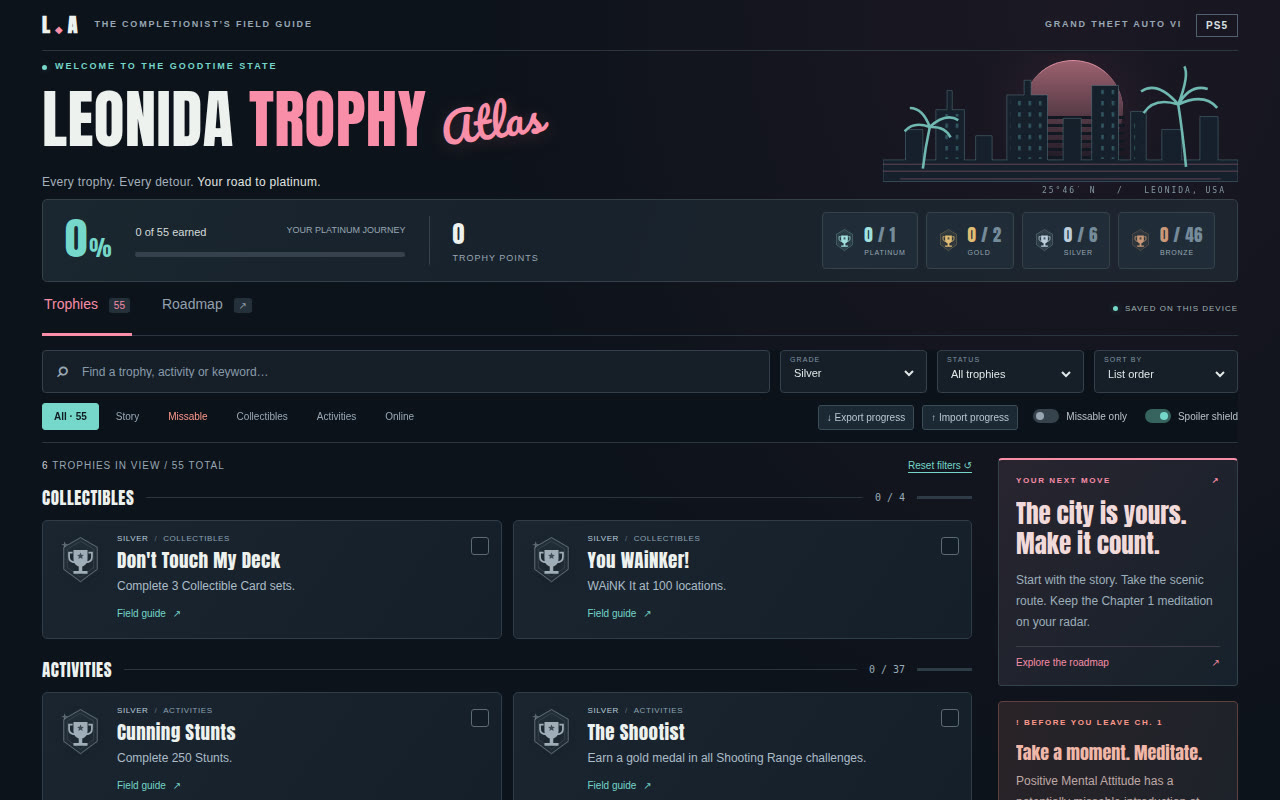
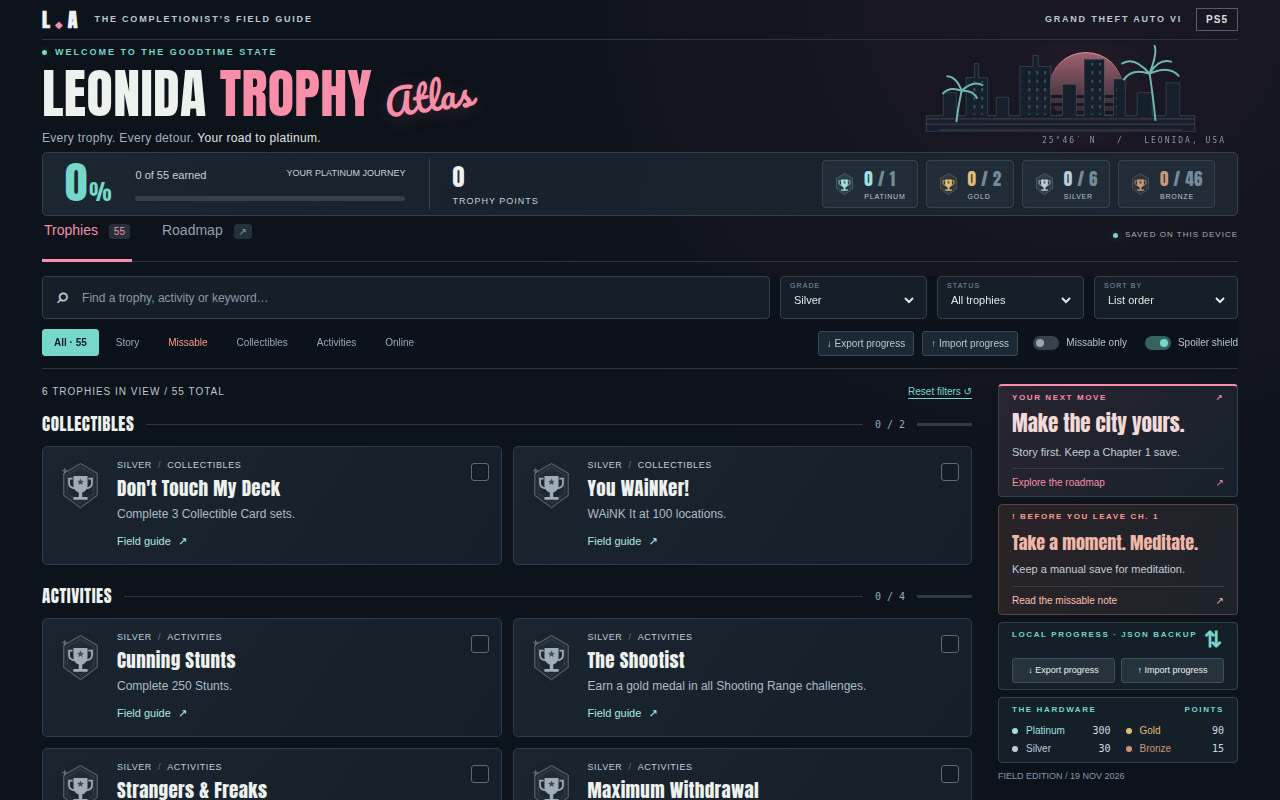
Leonida Trophy Atlas: critic fixes — compact hero, filter-aware counts, contrast, no voids

diff --git a/app/app.js b/app/app.js
@@ -57,8 +57,8 @@ function persist() {
   }
 }
 
-function groupProgress(categories) {
-  const trophies = data.trophies.filter((trophy) => categories.includes(trophy.category));
+function groupProgress(categories, visibleTrophies = data.trophies) {
+  const trophies = visibleTrophies.filter((trophy) => categories.includes(trophy.category));
   const done = trophies.filter((trophy) => earned.has(trophy.id)).length;
   return {
     done,
@@ -145,7 +145,7 @@ function renderTrophies() {
     (category) => {
       const trophies = filtered.filter((trophy) => trophy.category === category);
       if (!trophies.length) return '';
-      const progress = groupProgress([category]);
+      const progress = groupProgress([category], filtered);
       return `<section class="group" aria-label="${category} trophies"><div class="group-header"><h2>${category === 'Platinum' ? 'The ultimate souvenir' : category}</h2><span class="group-line"></span><span class="group-count">${progress.done} / ${progress.total}</span><span class="mini-bar" aria-hidden="true"><span style="width:${progress.percent}%"></span></span></div><div class="trophy-grid">${trophies.map(trophyMarkup).join('')}</div></section>`;
     },
   ).join(
@@ -176,6 +176,7 @@ function renderRoadmap() {
   const missables = data.trophies.filter((trophy) => trophy.missable);
   results.innerHTML = `<div class="roadmap-intro"><div><h2>THE LONG ROAD TO LEGEND</h2><p>A considered route. A little less backtracking.</p></div><span class="route-stamp">SINGLE-PLAYER ONLY</span></div><div class="roadmap-metrics"><div class="metric"><span>ESTIMATED DIFFICULTY</span><strong>${roadmap.difficulty}</strong><small>${escapeHtml(roadmap.difficultyNote)}</small></div><div class="metric"><span>TIME TO PLATINUM</span><strong>${roadmap.timeToPlatinum}</strong><small>PowerPyx estimate · exploration sets the pace</small></div></div><section class="roadmap-warning"><h3>! MISSABLES FIRST</h3>${missables.map((trophy) => `<p><strong>${escapeHtml(trophy.name)} — Chapter 1, Jason’s house.</strong> After Down to Earth, talk to Lucia in the kitchen in the morning, follow her to the balcony and accept meditation before leaving the chapter. Potentially missable; the requirement is still being verified. <a href="?open=${trophy.id}" data-jump="${trophy.id}">Read the precaution ↗</a></p>`).join('')}</section><div class="timeline">${roadmap.phases
     .map((phase, index) => {
+      if (index === 0) phase = { ...phase, text: 'Before leaving Chapter 1, see the Missables First warning above.' };
       const progress = groupProgress(phase.categories);
       return `<section class="phase"><span class="phase-number">${String(index + 1).padStart(2, '0')}</span><div class="phase-header"><h3>${escapeHtml(phase.title)}</h3><span class="phase-time">${escapeHtml(phase.hours)}</span></div><p>${escapeHtml(phase.text)}</p><div class="phase-progress"><span>${phase.categories.join(' + ')}</span><div class="progress-bar"><span style="width:${progress.percent}%"></span></div><strong>${progress.done} / ${progress.total} earned</strong></div></section>`;
     })
@@ -191,6 +192,21 @@ function renderRail() {
     <section class="rail-panel warning-panel"><div class="rail-eyebrow"><span>! BEFORE YOU LEAVE CH. 1</span></div><h3>Take a moment. Meditate.</h3><p>Positive Mental Attitude has a potentially missable introduction at Jason’s house. Keep a manual save.</p><button class="rail-action" data-jump="trophy-28">Read the missable note <span>↗</span></button></section>
     <section class="rail-panel"><div class="rail-eyebrow"><span>YOUR PROGRESS, YOURS.</span><span class="backup-icon">⇅</span></div><p style="margin-top:12px">${progress.done} earned. One browser. No account.<br>Take a backup for the next device.</p><div class="backup-actions"><button data-action="export">↓ Export progress</button><button data-action="import">↑ Import progress</button></div><p class="rail-footnote" style="margin-top:10px">JSON backup · stored locally · no cloud sync</p></section>
     <section class="rail-panel"><div class="rail-eyebrow"><span>THE HARDWARE</span><span>POINTS</span></div><div class="legend-list">${GRADES.map((grade) => `<div><span class="grade-${grade}"><i></i>${grade[0].toUpperCase() + grade.slice(1)}</span><b>${POINTS[grade]}</b></div>`).join('')}</div></section><p class="rail-footnote">FIELD EDITION / 19 NOV 2026<br>Source-linked advice. Unconfirmed secrets are labelled inside their guides.</p>`;
+  const rail = document.querySelector('#side-rail');
+  if (state.view === 'trophies') rail.querySelector('.route-panel h2').textContent = 'Make the city yours.';
+  rail.querySelector('.route-panel p').textContent = state.view === 'roadmap'
+    ? 'Follow the phases, then audit your checklist.'
+    : 'Story first. Keep a Chapter 1 save.';
+  rail.querySelector('.warning-panel p').textContent = state.view === 'roadmap'
+    ? 'See Missables First in the roadmap.'
+    : 'Keep a manual save for meditation.';
+  rail.querySelectorAll('.rail-panel:nth-child(3) > p').forEach((paragraph) => { paragraph.hidden = true; });
+  rail.querySelector('.rail-panel:nth-child(3) .rail-eyebrow > span').textContent = 'LOCAL PROGRESS · JSON BACKUP';
+  rail.querySelector(':scope > .rail-footnote').textContent = 'FIELD EDITION / 19 NOV 2026';
+  if (state.view === 'roadmap') {
+    rail.querySelector('.warning-panel h3').hidden = true;
+    rail.querySelector('.warning-panel .rail-action').hidden = true;
+  }
 }
 
 function render() {

diff --git a/app/style.css b/app/style.css
@@ -1684,3 +1684,142 @@ footer > span:last-child {
 .rail-panel p {
   font-size: 12px;
 }
+
+:root {
+  --muted: #bec9d2;
+}
+.hero {
+  min-height: 112px;
+  padding-block: 3px;
+}
+.edition {
+  height: 40px;
+}
+h1 {
+  font-size: 54px;
+}
+h1 em {
+  font-size: 36px;
+  line-height: 1;
+  vertical-align: 4px;
+}
+.view-nav {
+  height: 46px;
+}
+.hero-copy .eyebrow {
+  margin-bottom: 4px;
+}
+.hero-copy p {
+  margin-block: 6px 0;
+}
+.postcard {
+  height: 104px;
+}
+.postcard-sun {
+  width: 74px;
+  height: 74px;
+}
+.city-art {
+  height: 95px;
+}
+.stats-band {
+  min-height: 64px;
+  padding-block: 6px;
+}
+.grade-chip {
+  padding-block: 5px;
+}
+.stat-label,
+.stat-label span:last-child,
+.points-stat span,
+.category-tag,
+.hidden-tag,
+.sources > span,
+.sources a,
+.roadmap-source,
+.roadmap-source a {
+  color: #c7d3dc;
+}
+.card-tags .tag,
+.hidden-tag {
+  font-size: 9px;
+}
+.guide-button,
+.reveal-button {
+  color: #b3e9e2;
+  font-size: 11px;
+}
+.trophy-grid > .trophy-card:last-child:nth-child(odd of :not(.is-linked)) {
+  grid-column: 1 / -1;
+}
+.guide-panel,
+.is-linked .guide-panel {
+  padding: 22px 24px;
+}
+.guide-panel .tips,
+.is-linked .tips {
+  margin-top: 16px;
+  padding: 12px 14px;
+  line-height: 1.7;
+}
+.tips b {
+  display: block;
+  margin-bottom: 4px;
+}
+.guide-panel .sources,
+.is-linked .sources {
+  margin-top: 20px;
+  padding-block: 16px 4px;
+  gap: 12px 18px;
+  align-items: baseline;
+  font-size: 11px;
+}
+.side-rail {
+  gap: 7px;
+}
+.rail-panel {
+  padding: 6px 13px;
+}
+.rail-panel h2 {
+  font-size: 21px;
+  margin-block: 7px;
+}
+.rail-panel p {
+  color: #c4ced7;
+  font-size: 11px;
+  line-height: 1.5;
+  margin-bottom: 8px;
+}
+.rail-panel h3 {
+  margin-top: 6px;
+}
+.rail-action {
+  padding-top: 6px;
+}
+.backup-actions {
+  margin-top: 7px;
+}
+.backup-actions button {
+  padding-block: 5px;
+}
+.legend-list {
+  gap: 3px;
+  margin-top: 7px;
+  grid-template-columns: 1fr 1fr;
+  column-gap: 15px;
+}
+.rail-panel:nth-child(3) > p {
+  margin-top: 6px !important;
+}
+.side-rail > .rail-footnote {
+  margin-top: 0;
+}
+@media (max-width: 650px) {
+  .hero {
+    min-height: 145px;
+  }
+  .guide-panel,
+  .is-linked .guide-panel {
+    padding: 18px;
+  }
+}
